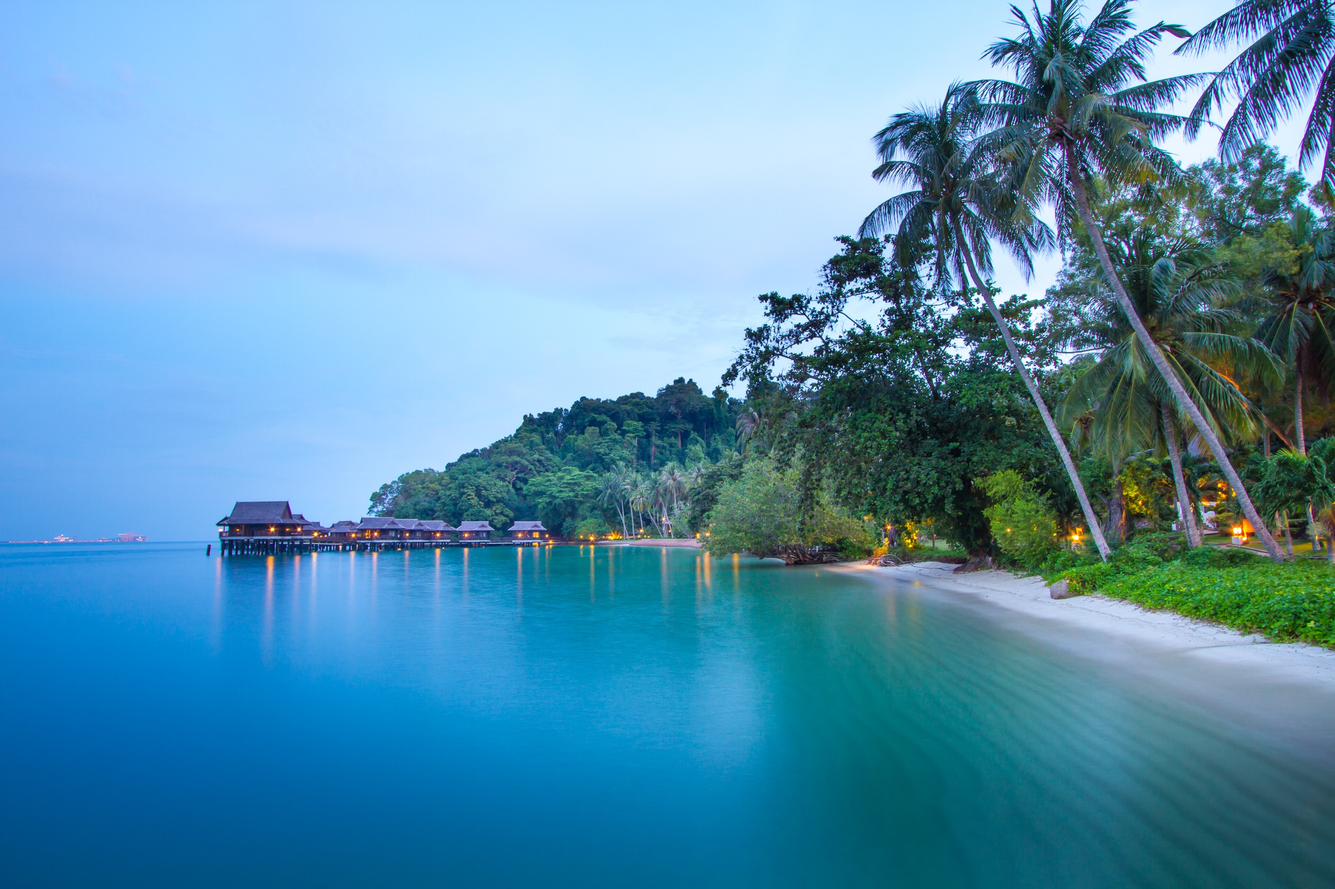
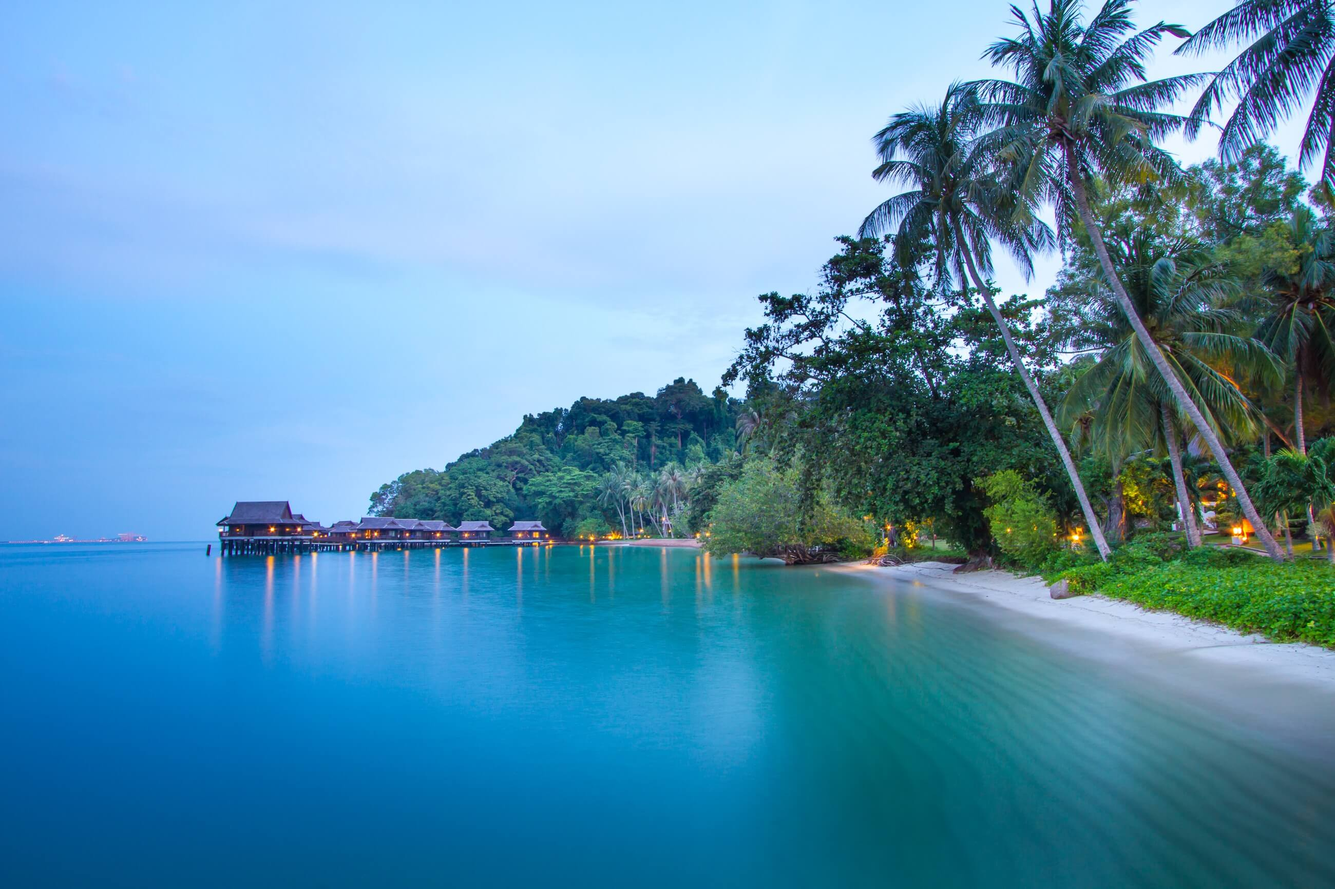
perak state all images compressed

Changed region(s): [[0.5608, 0.0, 1.0, 0.4362]]

diff --git a/web/state-perak.html b/web/state-perak.html
@@ -81,14 +81,14 @@
         <div class="content1">
             <div class="threeimage-gridcontainer">
                 <div class="griditem-image">
-                    <img src="images/perak/chuichak1.png" alt="Chui Chak 1">
+                    <img src="images/perak/chuichak1.jpg" alt="Chui Chak 1">
                 </div>
                 <div class="smallerimages">
                     <div class="griditem-image">
-                        <img src="images/perak/chuichak2.png" alt="Chui Chak 2">
+                        <img src="images/perak/chuichak2.jpg" alt="Chui Chak 2">
                     </div>
                     <div class="griditem-image">
-                        <img src="images/perak/chuichak3.png" alt="Chui Chak 3">
+                        <img src="images/perak/chuichak3.jpg" alt="Chui Chak 3">
                     </div>
                 </div>
             </div>
@@ -166,14 +166,14 @@
 
             <div class="threeimage-gridcontainer">
                 <div class="griditem-image">
-                    <img src="images/perak/tasikcermin1.png" alt="Tasik Cermin 1">
+                    <img src="images/perak/tasikcermin1.jpg" alt="Tasik Cermin 1">
                 </div>
                 <div class="smallerimages">
                     <div class="griditem-image">
-                        <img src="images/perak/tasikcermin2.png" alt="Tasik Cermin 2">
+                        <img src="images/perak/tasikcermin2.jpg" alt="Tasik Cermin 2">
                     </div>
                     <div class="griditem-image">
-                        <img src="images/perak/tasikcermin3.png" alt="Tasik Cermin 3">
+                        <img src="images/perak/tasikcermin3.jpg" alt="Tasik Cermin 3">
                     </div>
                 </div>
             </div>
@@ -210,14 +210,14 @@
         <div class="content1">
             <div class="threeimage-gridcontainer">
                 <div class="griditem-image">
-                    <img src="images/perak/concubinelane1.png" alt="Concubine Lane 1">
+                    <img src="images/perak/concubinelane1.jpg" alt="Concubine Lane 1">
                 </div>
                 <div class="smallerimages">
                     <div class="griditem-image">
-                        <img src="images/perak/concubinelane2.png" alt="Concubine Lane 2">
+                        <img src="images/perak/concubinelane2.jpg" alt="Concubine Lane 2">
                     </div>
                     <div class="griditem-image">
-                        <img src="images/perak/concubinelane3.png" alt="Concubine Lane 3">
+                        <img src="images/perak/concubinelane3.jpg" alt="Concubine Lane 3">
                     </div>
                 </div>
             </div>

diff --git a/web/css/state-perak.css b/web/css/state-perak.css
@@ -162,23 +162,12 @@
 .penanghills {
     font-family: 'Sweet Sans Pro', sans-serif;
     height: 130vh;
-    background-image: url('../images/perak/pulaupangkor.png');
+    background-image: url('../images/perak/pulaupangkor.jpg');
     background-size: cover;
     display: flex;
     justify-content: right;
     align-items: center;
     padding-right: 100px;
-}
-
-.georgetownimage {
-    flex: 1;
-    margin-right: 80px;
-    background-image: url('../images/penang/sec2penanghills.png');
-    background-size: contain;
-    background-position: center;
-    background-repeat: no-repeat;
-    width: auto;
-    height: 400px;
 }
 
 .textcontainerright1 {
@@ -248,7 +237,7 @@
 .escapepng {
     font-family: 'Sweet Sans Pro', sans-serif;
     height: 130vh;
-    background-image: url('../images/perak/gopeng.png');
+    background-image: url('../images/perak/gopeng.jpg');
     background-size: cover;
     display: flex;
     justify-content: right;
